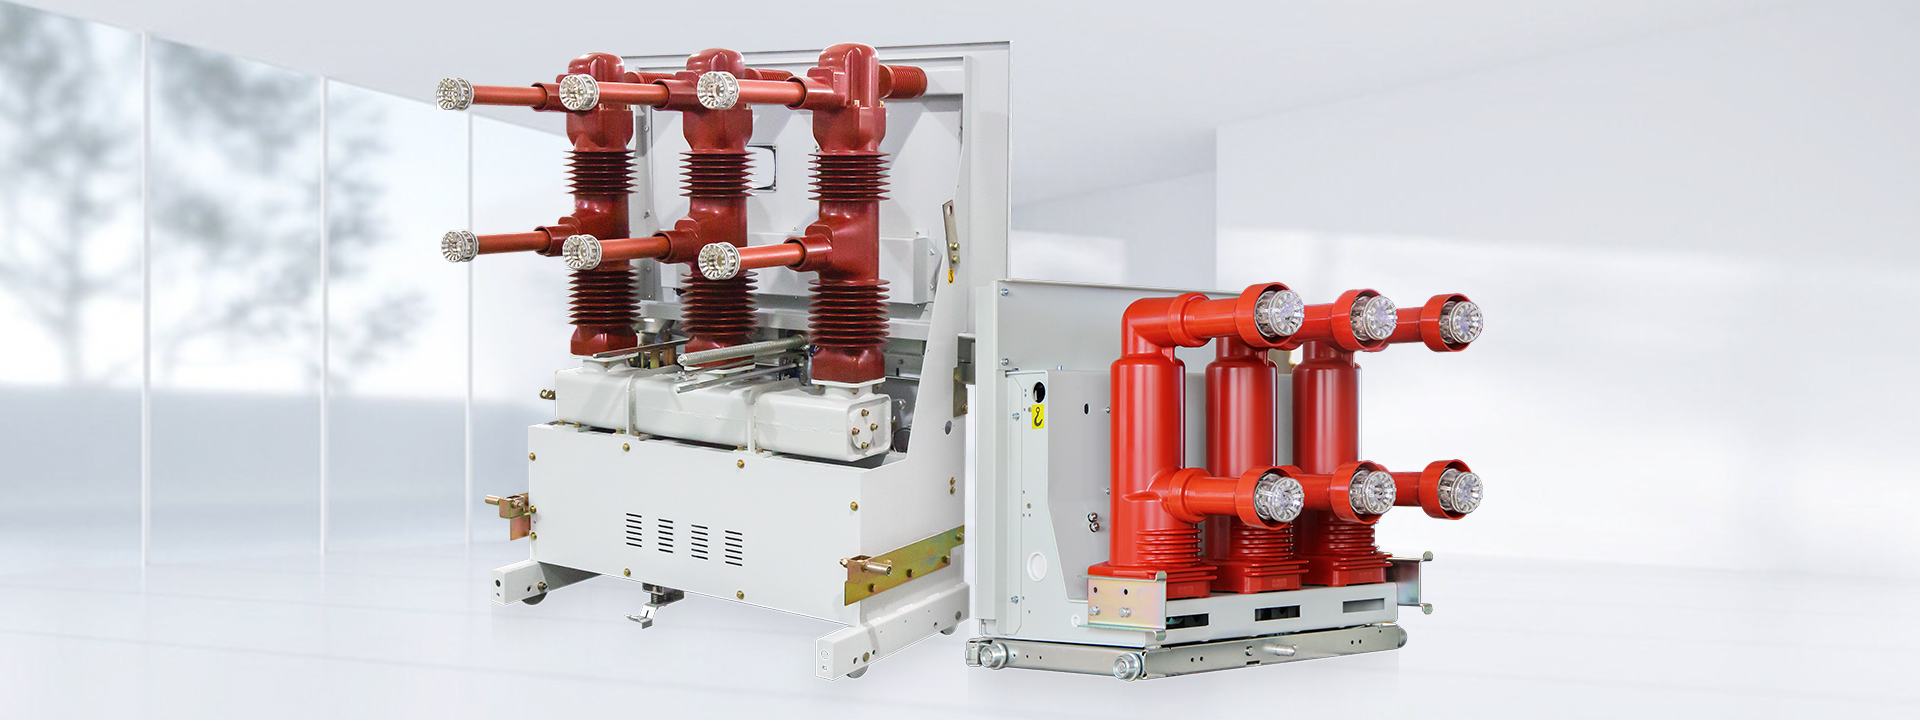
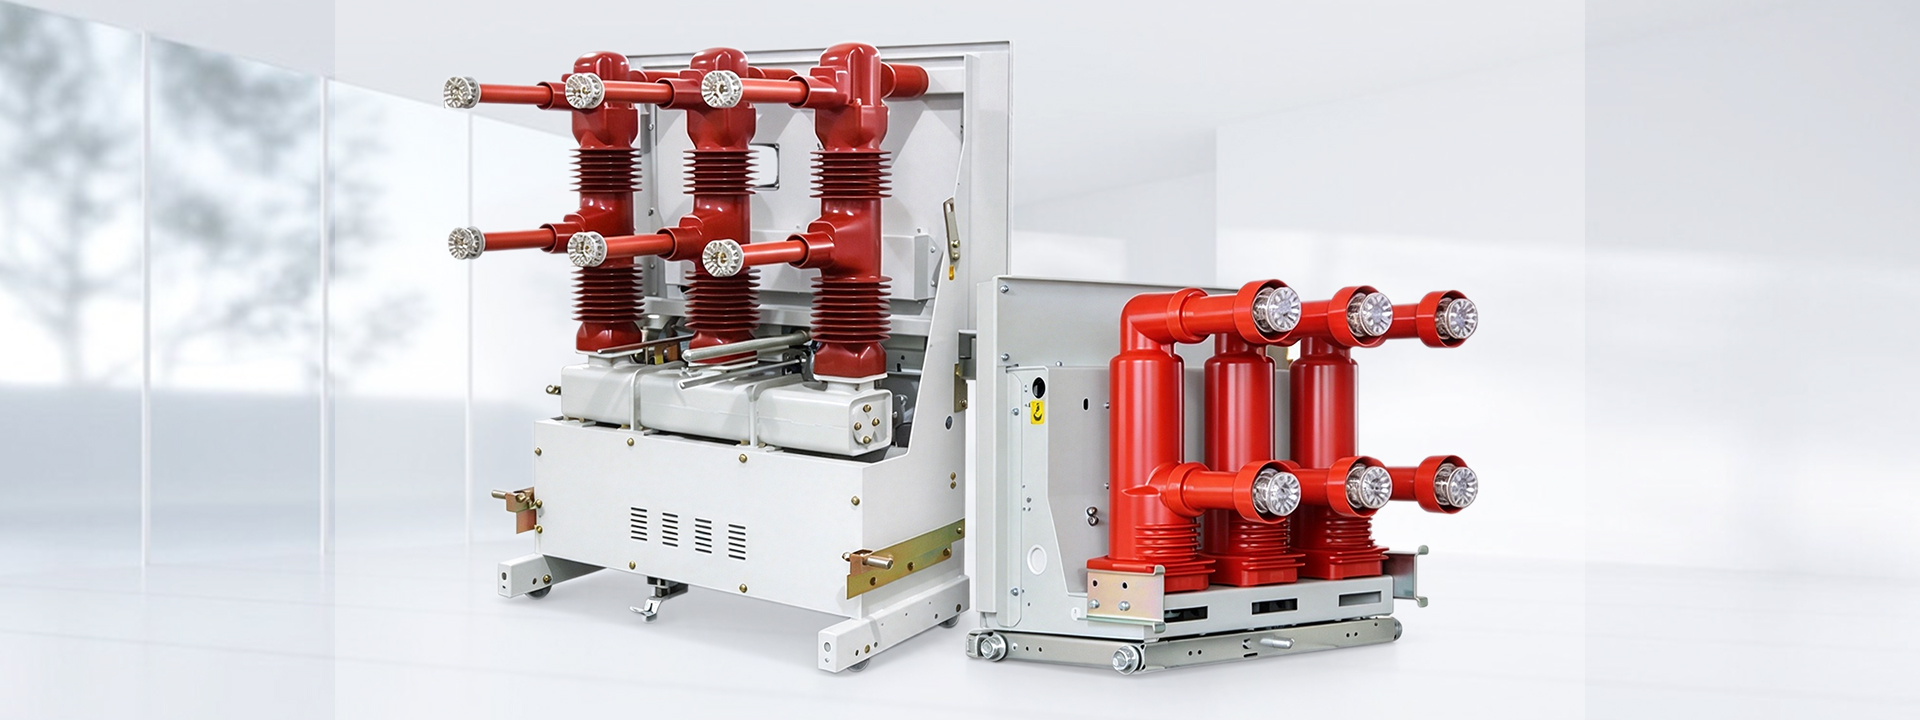
Refresh vacuum circuit breaker category cover

Changed region(s): [[0.2188, 0.0611, 0.7812, 0.9472]]

diff --git a/products/index.html b/products/index.html
@@ -545,7 +545,7 @@
             <section class="products-panel" id="products-panel-primary-switching" role="tabpanel" aria-labelledby="products-tab-primary-switching" aria-hidden="true">
               <div class="products-card-grid">
                 <article class="products-card">
-                  <div class="products-card-visual has-image" data-code="VCB" style="background-image: url('/statics/web/images/category-banner/products-vacuum-circuit-breaker-cover.jpg?v=af05a549e2c7');"></div>
+                  <div class="products-card-visual has-image" data-code="VCB" style="background-image: url('/statics/web/images/category-banner/products-vacuum-circuit-breaker-cover.jpg?v=5dd963823a99');"></div>
                   <div class="products-card-body">
                     <h4>Vacuum Circuit Breaker</h4>
                     <p>Vacuum circuit breakers for medium-voltage protection, switching, and switchgear integration.</p>
